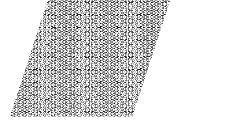
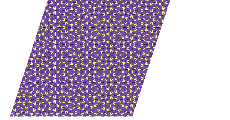
Added tile colourings

diff --git a/sketch.js b/sketch.js
@@ -3,13 +3,11 @@ let tiles;
 function setup () {
     createCanvas(960, 500);
     angleMode(DEGREES);
-    tiles = penrose.generate(9);
+    tiles = penrose.generate(8);
     push();
     {
         translate(200, 0)
         scale(510, 510);
-        //noStroke();
-        strokeWeight(0.001);
 
         tiles.forEach((tri) => {
             if (tri.acute) {
@@ -17,14 +15,19 @@ function setup () {
             } else {
                 fill('#7847B2');
             }
+
+            noStroke();
+            beginShape();
+                vertex(tri.base.edge.a.x, tri.base.edge.a.y);
+                vertex(tri.base.edge.b.x, tri.base.edge.b.y);
+                vertex(tri.apex.x,        tri.apex.y);
+            endShape(CLOSE);
+
+            strokeWeight(0.001);
+            stroke(0);
             line(tri.left.edge.a.x, tri.left.edge.a.y, tri.left.edge.b.x, tri.left.edge.b.y);
             line(tri.right.edge.a.x, tri.right.edge.a.y, tri.right.edge.b.x, tri.right.edge.b.y);
-            //line(tri.base.edge.a.x, tri.base.edge.a.y, tri.base.edge.b.x, tri.base.edge.b.y);
-            // beginShape();
-            // vertex(tri.left.edge.a.x, tri.left.edge.a.y);
-            // vertex(tri.right.edge.b.x, tri.right.edge.b.y);
-            // vertex(tri.base.edge.a.x, tri.base.edge.a.y);
-            // endShape(CLOSE);
+            //line(tri.base.edge.a.x, tri.base.edge.a.y , tri.base.edge.b.x, tri.base.edge.b.y);
         })
     }
     pop();

diff --git a/penrose.js b/penrose.js
@@ -68,6 +68,8 @@ const penrose = {};
         this.left = left;       left.edge.adjacent.push(this);
         this.right = right;     right.edge.adjacent.push(this);
 
+        this.apex = this.left.edge.vert(true == this.left.ab)
+
         this.acute = Math.abs(angle) == acute;
         this.obtuse = Math.abs(angle) == obtuse;
 
